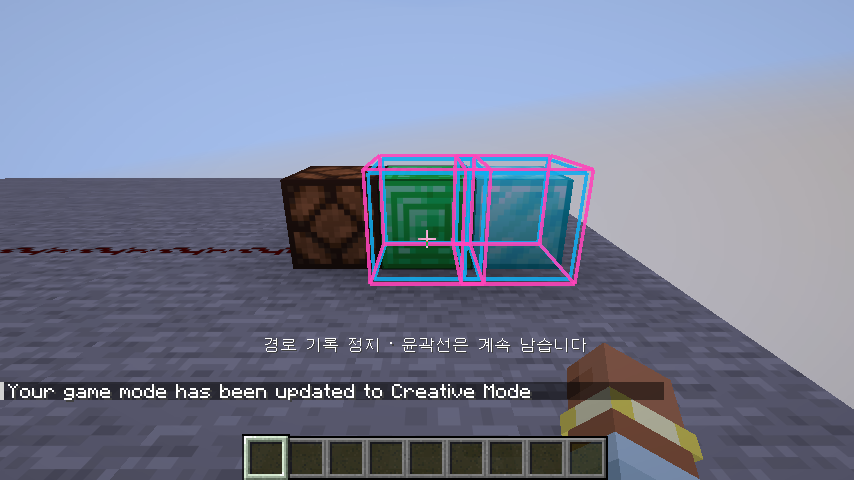
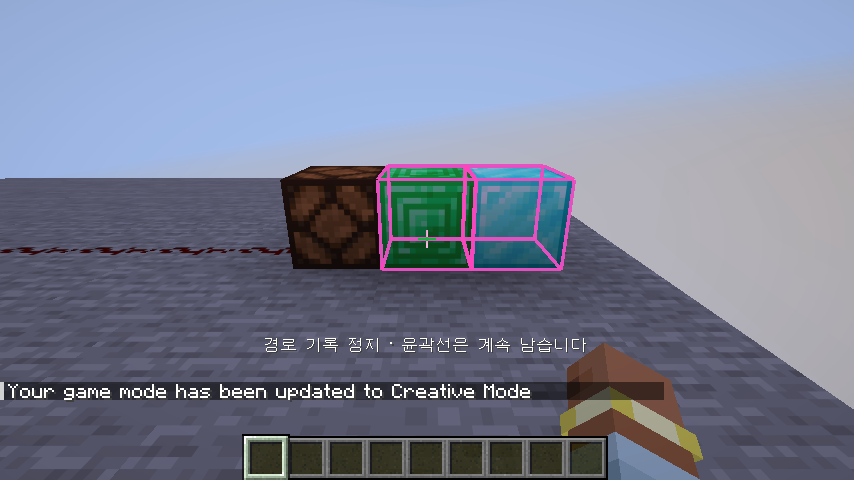
Preserve original outline bounds for saved trails

Changed region(s): [[0.4262, 0.3125, 0.7002, 0.5938]]

diff --git a/src/gametest/java/io/github/ruok0214/redstonetrail/TrailClientGameTest.java b/src/gametest/java/io/github/ruok0214/redstonetrail/TrailClientGameTest.java
@@ -60,6 +60,7 @@ public final class TrailClientGameTest implements FabricClientGameTest {
         var blue = context.computeOnClient(mc -> RedstoneTrailClient.manager.book().style());
         check(blue.color() == 0x12ABEF && blue.transparency() > 0 && blue.width() > 2.5, "Current appearance applies after resize");
         context.runOnClient(mc -> check(RedstoneTrailClient.extractOutlines().stream().allMatch(o -> o.color() == blue.argb(1) && o.width() == blue.width()), "Existing current marks use edited alpha, color and width"));
+        var originalBoxes = context.computeOnClient(mc -> RedstoneTrailClient.extractOutlines().stream().map(o -> o.box()).toList());
         snapshot(context, "회로 A");
         context.clickScreenButton("redstone_trail.appearance"); color(context, "invalid");
         context.runOnClient(mc -> check(mc.gui.screen().children().stream().filter(Button.class::isInstance).map(Button.class::cast)
@@ -71,7 +72,7 @@ public final class TrailClientGameTest implements FabricClientGameTest {
         context.runOnClient(mc -> {
             var outlines = RedstoneTrailClient.extractOutlines();
             check(outlines.size() == 4 && outlines.stream().map(o -> o.color() & 0xFFFFFF).distinct().count() == 2, "Two independently colored snapshots show together while current trail is hidden");
-            check(outlines.stream().map(o -> Math.round(o.box().getXsize() * 1000)).distinct().count() == 2, "Overlapping comparisons use separated bounds");
+            check(outlines.stream().map(o -> o.box()).distinct().toList().equals(originalBoxes), "Saved comparisons preserve the original outline size and position");
         });
         context.clickScreenButton("gui.done");
         world.getServer().runCommand("tp @a 6.5 81 4.5 180 20");
@@ -96,7 +97,9 @@ public final class TrailClientGameTest implements FabricClientGameTest {
         firstButton(context, "delete"); context.waitForScreen(ConfirmScreen.class); context.clickScreenButton("gui.no");
         context.runOnClient(mc -> check(RedstoneTrailClient.manager.book().saved().size() == 2, "Cancel snapshot deletion keeps both trails"));
         firstButton(context, "delete"); context.waitForScreen(ConfirmScreen.class); context.clickScreenButton("gui.yes");
-        context.runOnClient(mc -> check(RedstoneTrailClient.manager.book().saved().size() == 1 && RedstoneTrailClient.extractOutlines().size() == 2, "Delete removes only chosen snapshot"));
+        context.runOnClient(mc -> check(RedstoneTrailClient.manager.book().saved().size() == 1
+                && RedstoneTrailClient.extractOutlines().stream().map(o -> o.box()).toList().equals(originalBoxes),
+                "Deleting another snapshot leaves the remaining outline size and position unchanged"));
         context.clickScreenButton("gui.done"); context.waitForScreen(TrailScreen.class);
         // The two controls live on the same screen, with no mutually exclusive mode selector.
         context.clickScreenButton(label(context, "계속 유지:"));

diff --git a/src/client/java/io/github/ruok0214/redstonetrail/RedstoneTrailClient.java b/src/client/java/io/github/ruok0214/redstonetrail/RedstoneTrailClient.java
@@ -64,12 +64,9 @@ public final class RedstoneTrailClient implements ClientModInitializer {
             addOutline(result, mc, mark, book.style(), 1, .004, book.throughWalls());
         if (book.temporary().enabled()) for (var mark : book.temporaryMarks())
             addOutline(result, mc, mark, book.temporaryStyle(), book.opacity(mark), .042, book.throughWalls());
-        int layer = 1;
         for (var saved : book.saved()) {
-            // Slightly separated bounds keep overlapping comparison colors distinguishable.
             if (saved.visible()) for (var mark : saved.marks())
-                addOutline(result, mc, mark, saved.style(), 1, .004 + .24 * layer / (layer + 2), book.throughWalls());
-            layer++;
+                addOutline(result, mc, mark, saved.style(), 1, .004, book.throughWalls());
         }
         return List.copyOf(result);
     }

diff --git a/docs/VERIFICATION.md b/docs/VERIFICATION.md
@@ -1,6 +1,6 @@
 # 검증 기록
 
-검증일: **2026-10-30 (한국 시간)** · 버전: **0.3.0**
+검증일: **2026-10-30 (한국 시간)** · 버전: **0.3.1**
 
 ## 독립 작동과 동시 표시
 
@@ -48,7 +48,8 @@
 - 초기화 확인창의 취소는 기록 보존, 확인은 계속 유지 기록과 형상 제거.
 - 현재 경로의 RGB 코드·투명도·선 두께 편집, 적용 전 초안 유지, 작은 창으로 크기 변경 후 적용.
 - 잘못된 색 코드는 적용 비활성화. 외형 변경은 이미 그린 윤곽에도 반영.
-- 두 트레일을 다른 색으로 저장하고 함께 렌더링. 겹치는 위치의 윤곽 크기를 달리해 색 구분.
+- 두 트레일을 다른 색으로 저장하고 함께 렌더링. 두 저장본의 윤곽 경계가 저장 전 경로와 정확히 일치.
+- 앞선 저장본을 삭제해도 남은 저장본의 윤곽 크기·위치가 바뀌지 않음.
 - 계속 유지 경로를 숨겨도 비교본은 표시. 저장본별 이름/외형 수정, 숨기기/보이기, 삭제 취소/확인.
 - 비교본 개수·위치 한도에서 기존 자료 보존, 목록 데이터와 저장 복원 검사.
 
